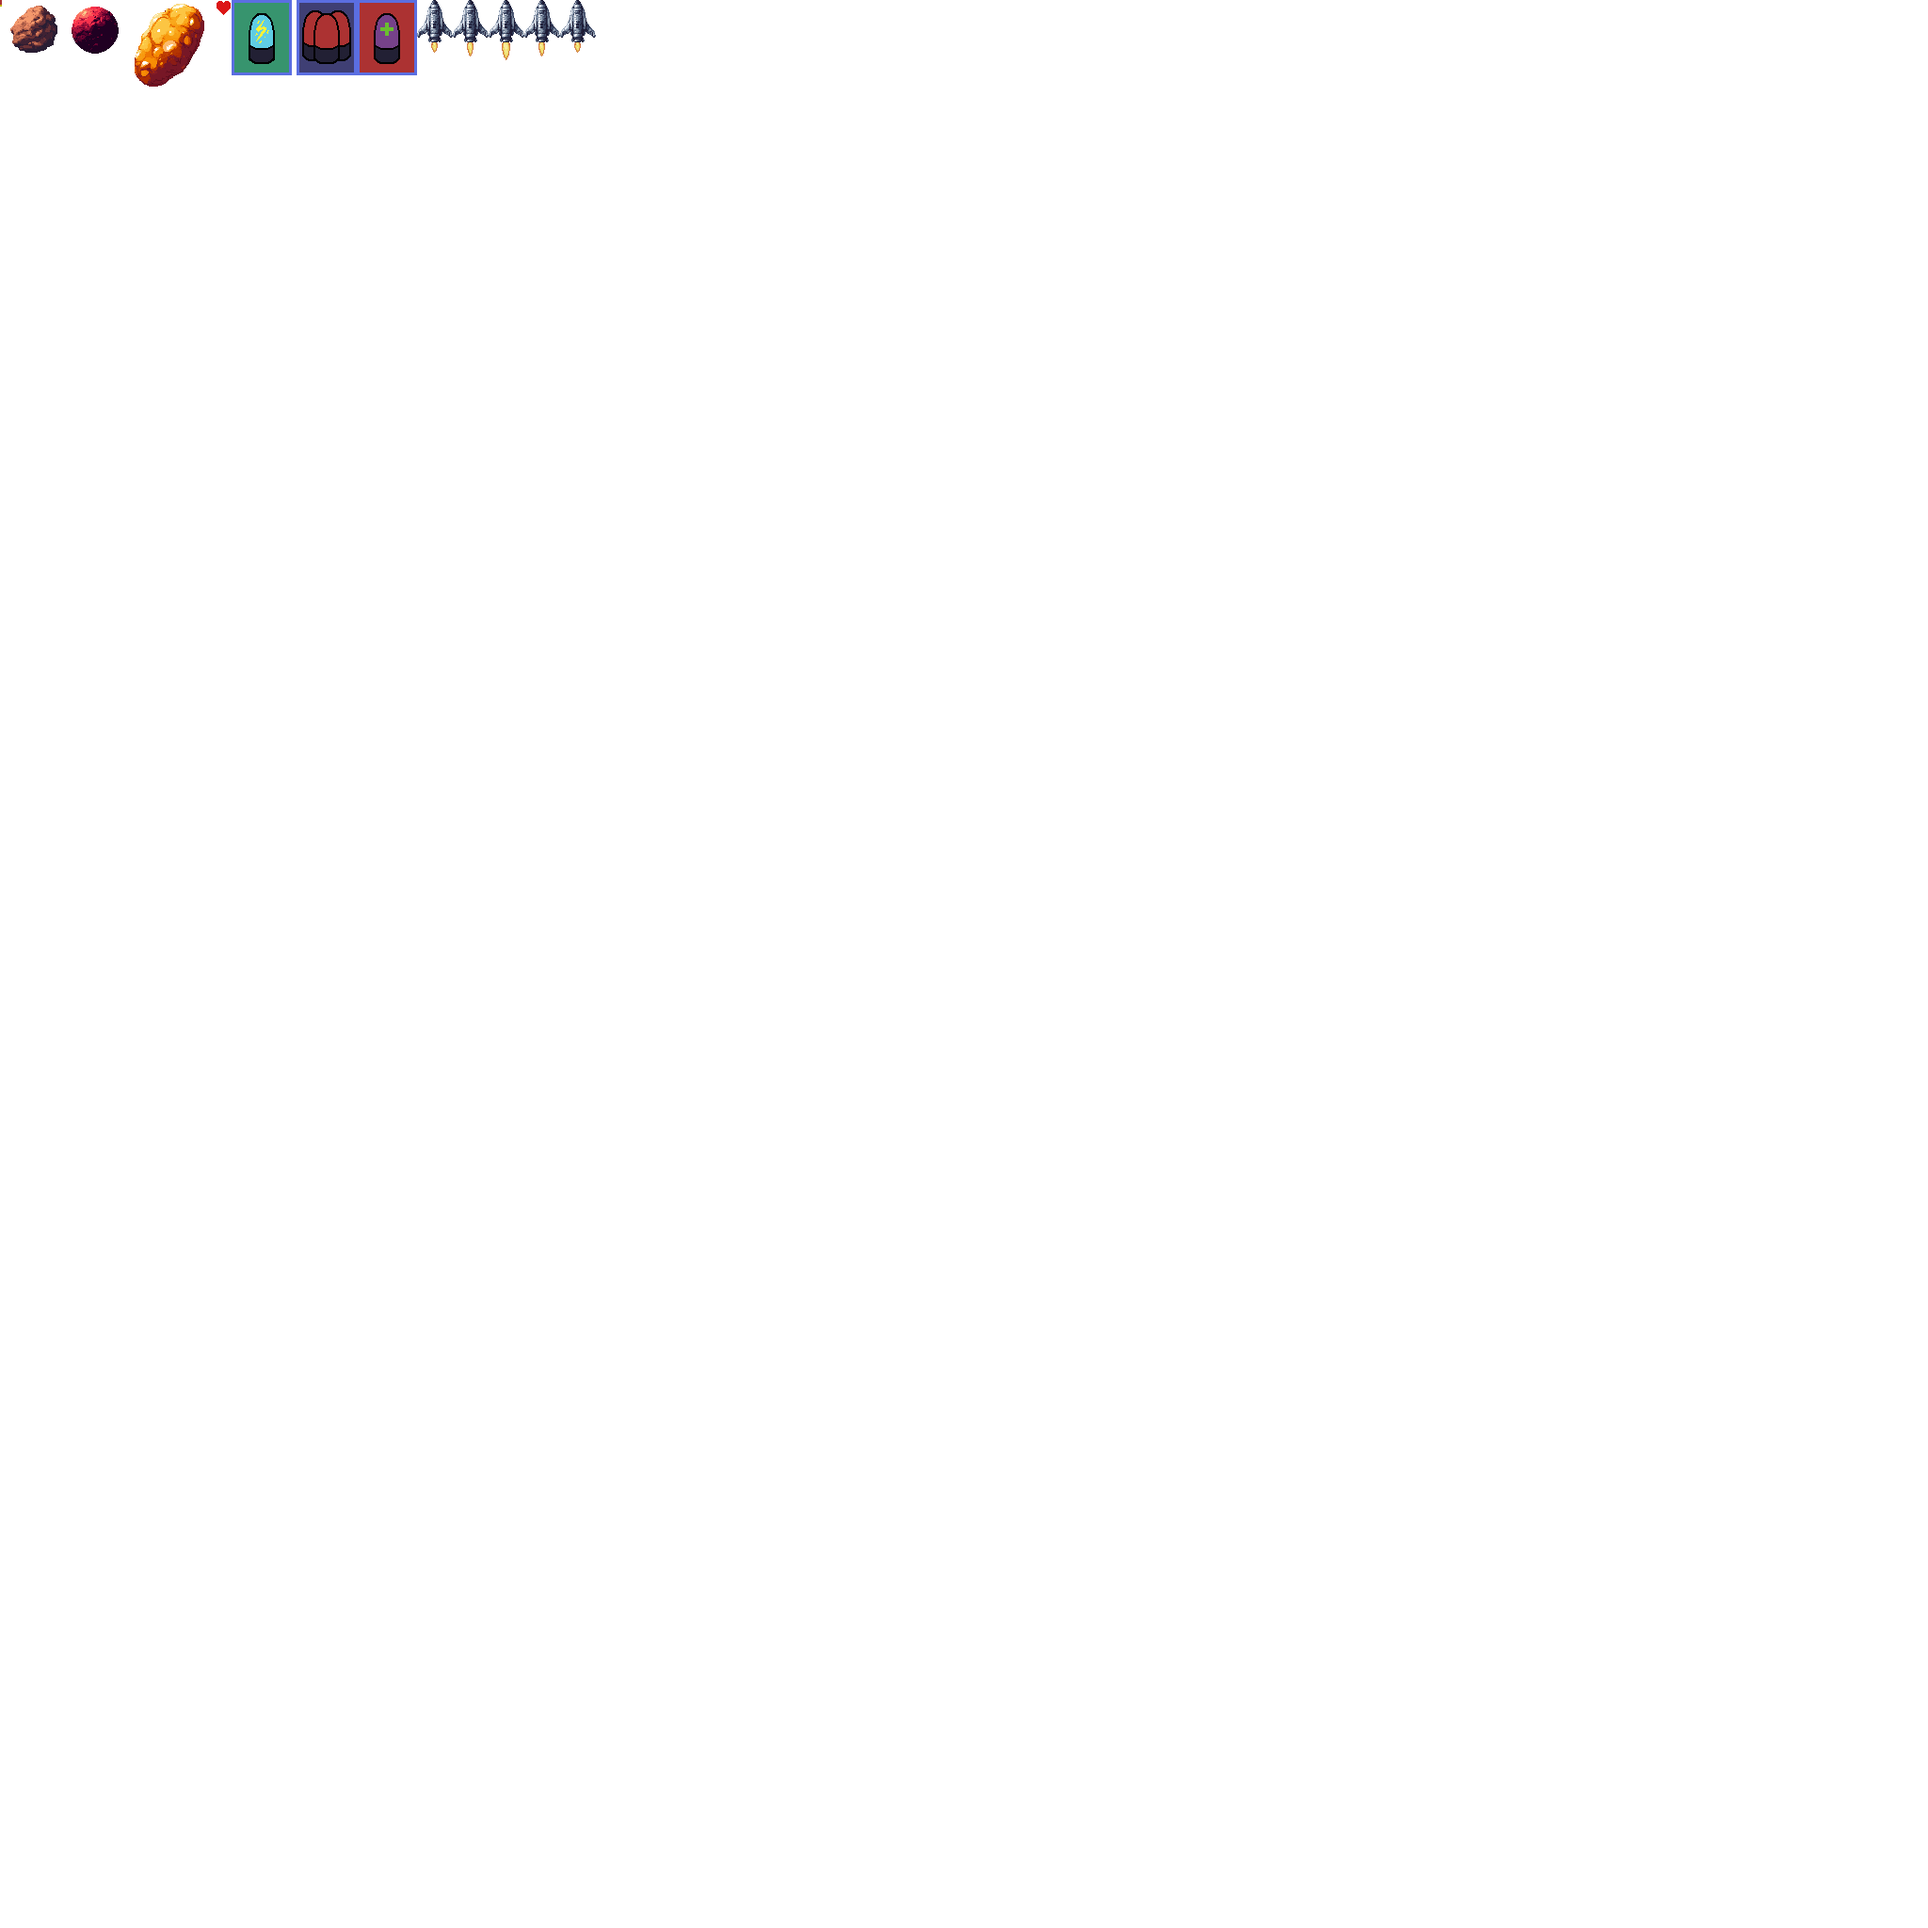
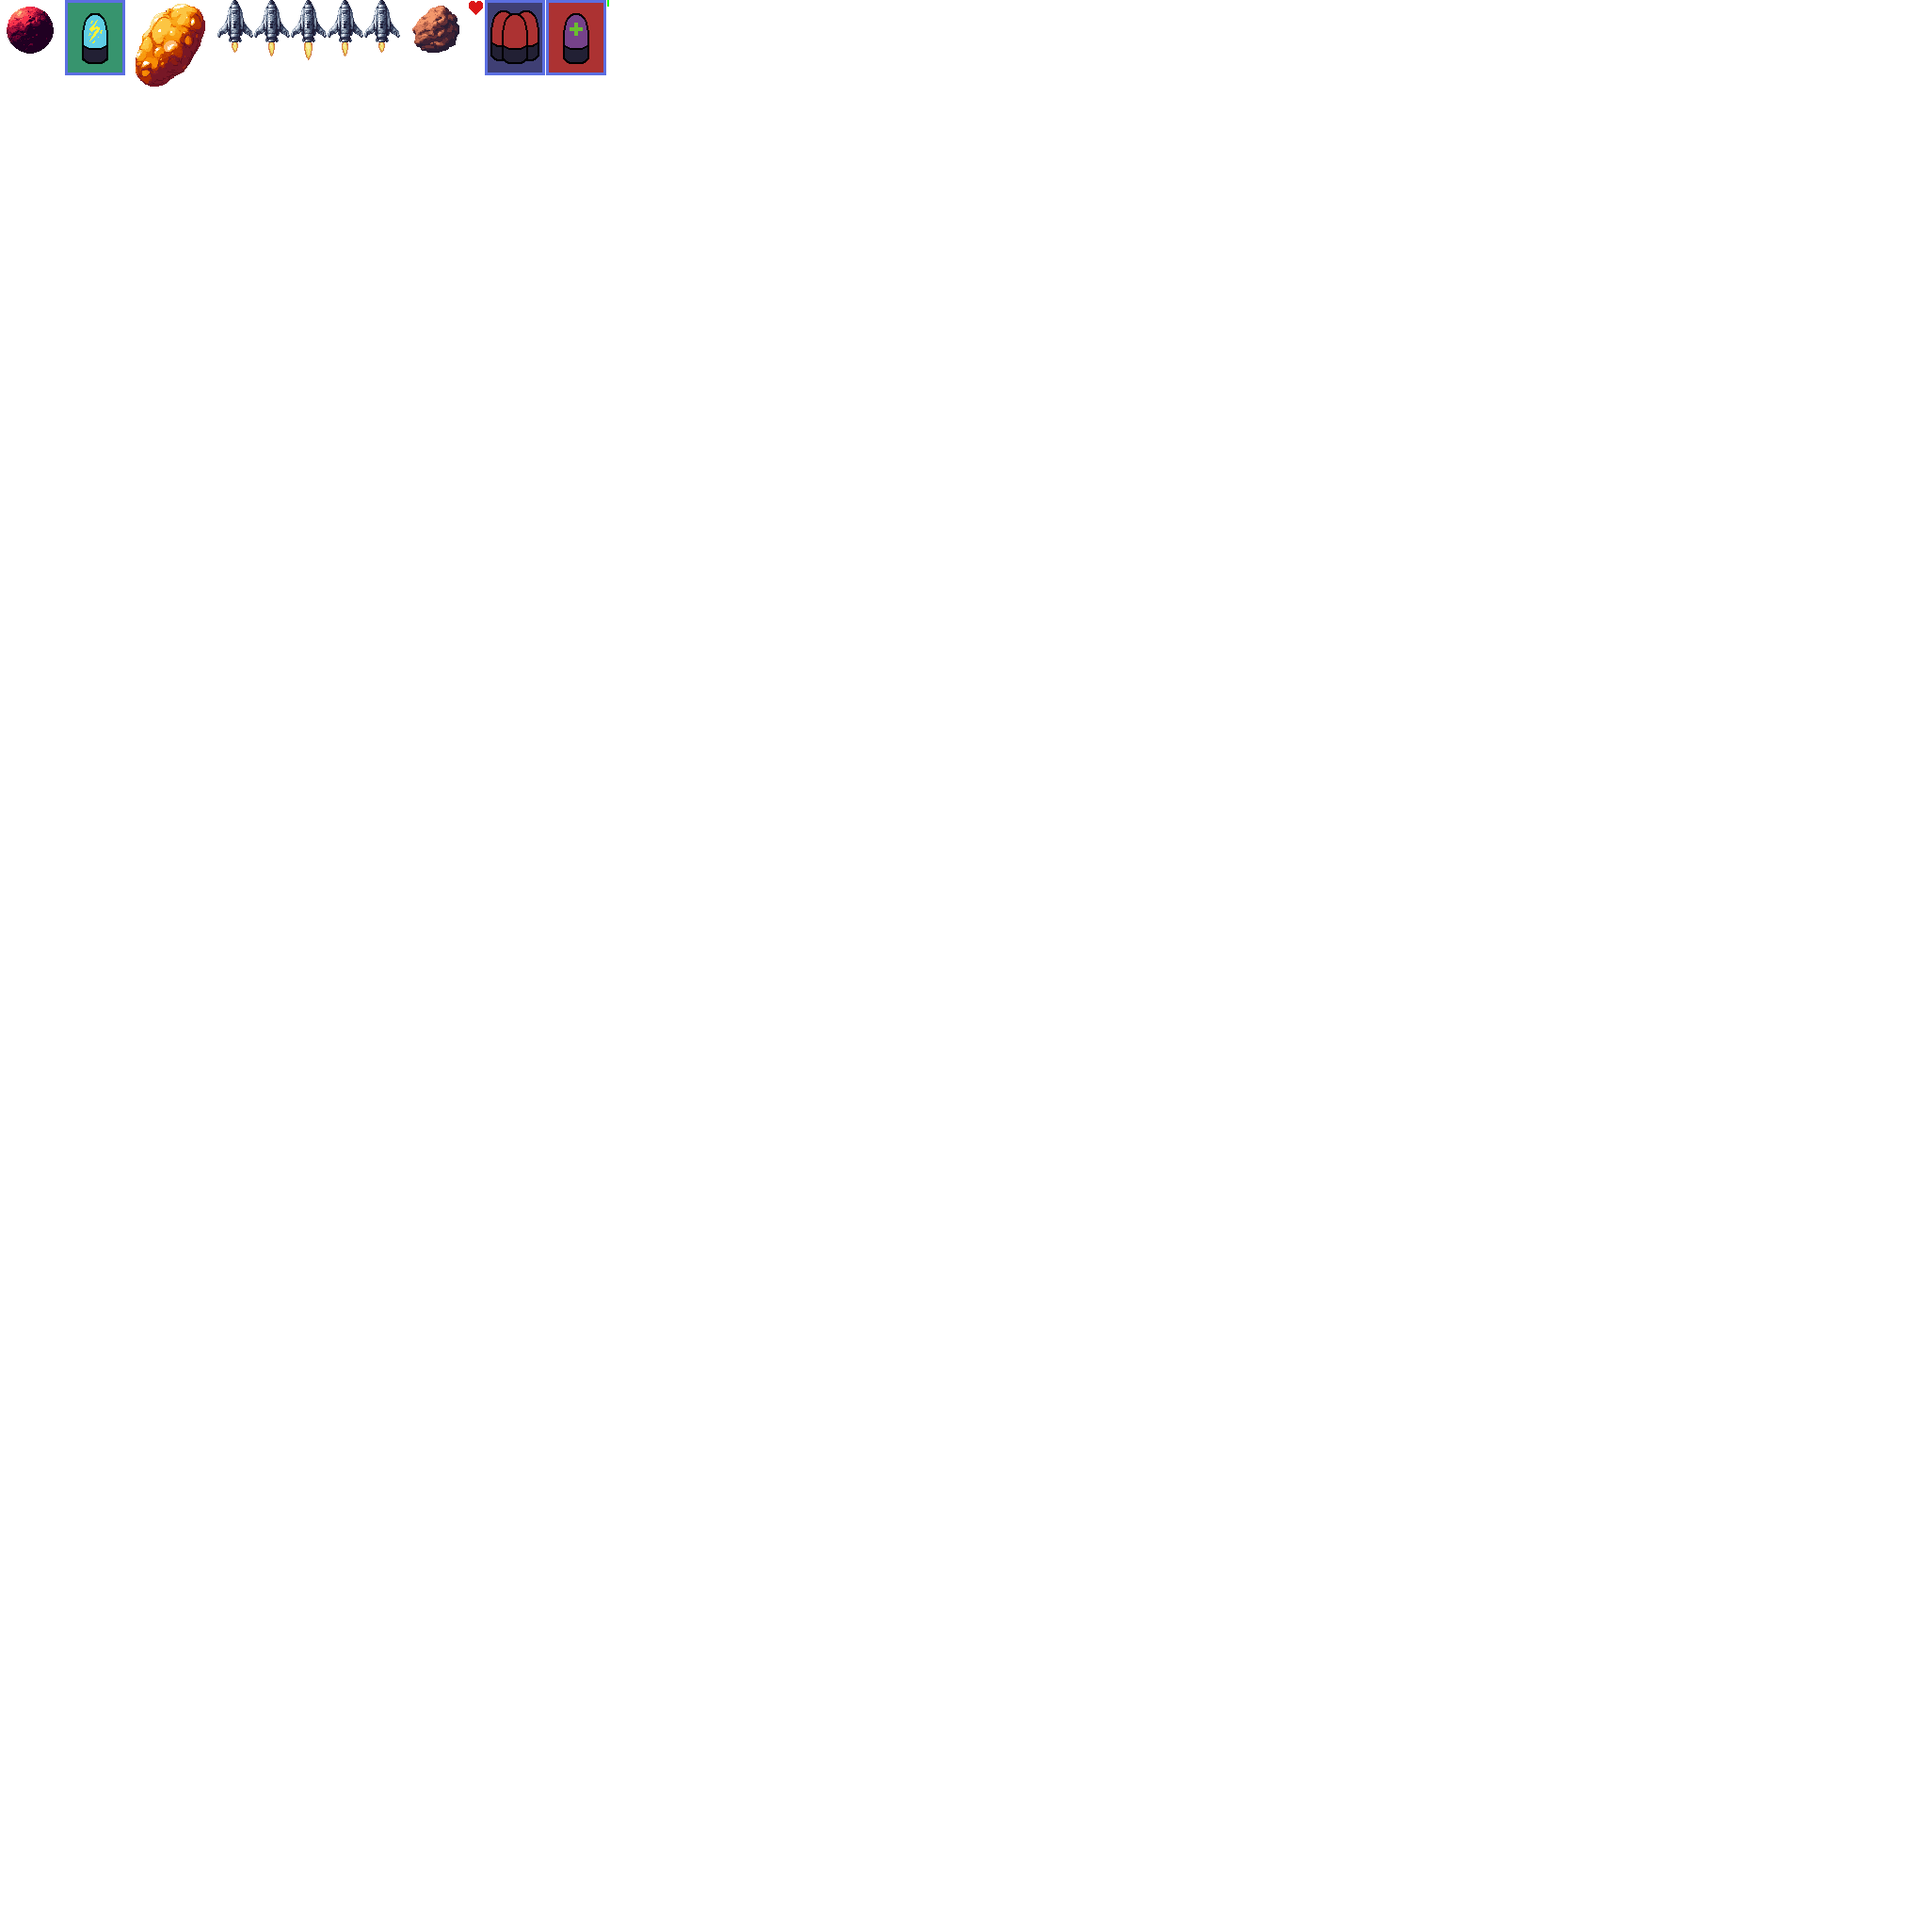
Added texture atlas shape padding of 1 to avoid errors when using bilinear interpolation

Changed region(s): [[0.0, 0.0, 0.3125, 0.0625]]

diff --git a/assetsData.h b/assetsData.h
@@ -28,17 +28,17 @@ typedef enum SpriteID {
 static inline Sprite getSprite(SpriteID spriteID) {
     Sprite s = {0};
     switch(spriteID) {
-        case SPRITE_ASTEROID1: { s.coords = (Rectangle){5, 0, 64, 64}; s.pivotOffset = (Vector2){0, 0}; s.numFrames = 1; break; }
-        case SPRITE_ASTEROID2: { s.coords = (Rectangle){69, 0, 64, 64}; s.pivotOffset = (Vector2){0, 0}; s.numFrames = 1; break; }
-        case SPRITE_ASTEROID3: { s.coords = (Rectangle){133, 0, 96, 96}; s.pivotOffset = (Vector2){0, 0}; s.numFrames = 1; break; }
-        case SPRITE_BULLET: { s.coords = (Rectangle){0, 0, 2, 7}; s.pivotOffset = (Vector2){0, 0}; s.numFrames = 1; break; }
-        case SPRITE_HEART: { s.coords = (Rectangle){229, 0, 17, 17}; s.pivotOffset = (Vector2){0, 0}; s.numFrames = 1; break; }
-        case SPRITE_PLAYER: { s.coords = (Rectangle){443, 0, 190, 64}; s.pivotOffset = (Vector2){-1, -24}; s.numFrames = 5; break; }
-        case SPRITE_STAR1: { s.coords = (Rectangle){310, 0, 5, 5}; s.pivotOffset = (Vector2){0, 0}; s.numFrames = 1; break; }
-        case SPRITE_STAR2: { s.coords = (Rectangle){2, 0, 3, 3}; s.pivotOffset = (Vector2){0, 0}; s.numFrames = 1; break; }
-        case SPRITE_UPGRADEDAMAGE: { s.coords = (Rectangle){379, 0, 64, 80}; s.pivotOffset = (Vector2){0, 0}; s.numFrames = 1; break; }
-        case SPRITE_UPGRADEFIRERATE: { s.coords = (Rectangle){246, 0, 64, 80}; s.pivotOffset = (Vector2){0, 0}; s.numFrames = 1; break; }
-        case SPRITE_UPGRADEMULTISHOT: { s.coords = (Rectangle){315, 0, 64, 80}; s.pivotOffset = (Vector2){0, 0}; s.numFrames = 1; break; }
+        case SPRITE_ASTEROID1: { s.coords = (Rectangle){432, 0, 64, 64}; s.pivotOffset = (Vector2){0, 0}; s.numFrames = 1; break; }
+        case SPRITE_ASTEROID2: { s.coords = (Rectangle){0, 0, 64, 64}; s.pivotOffset = (Vector2){0, 0}; s.numFrames = 1; break; }
+        case SPRITE_ASTEROID3: { s.coords = (Rectangle){134, 0, 96, 96}; s.pivotOffset = (Vector2){0, 0}; s.numFrames = 1; break; }
+        case SPRITE_BULLET: { s.coords = (Rectangle){645, 0, 2, 7}; s.pivotOffset = (Vector2){0, 0}; s.numFrames = 1; break; }
+        case SPRITE_HEART: { s.coords = (Rectangle){497, 0, 17, 17}; s.pivotOffset = (Vector2){0, 0}; s.numFrames = 1; break; }
+        case SPRITE_PLAYER: { s.coords = (Rectangle){235, 0, 190, 64}; s.pivotOffset = (Vector2){-1, -24}; s.numFrames = 5; break; }
+        case SPRITE_STAR1: { s.coords = (Rectangle){426, 0, 5, 5}; s.pivotOffset = (Vector2){0, 0}; s.numFrames = 1; break; }
+        case SPRITE_STAR2: { s.coords = (Rectangle){65, 0, 3, 3}; s.pivotOffset = (Vector2){0, 0}; s.numFrames = 1; break; }
+        case SPRITE_UPGRADEDAMAGE: { s.coords = (Rectangle){580, 0, 64, 80}; s.pivotOffset = (Vector2){0, 0}; s.numFrames = 1; break; }
+        case SPRITE_UPGRADEFIRERATE: { s.coords = (Rectangle){69, 0, 64, 80}; s.pivotOffset = (Vector2){0, 0}; s.numFrames = 1; break; }
+        case SPRITE_UPGRADEMULTISHOT: { s.coords = (Rectangle){515, 0, 64, 80}; s.pivotOffset = (Vector2){0, 0}; s.numFrames = 1; break; }
         default: break;
     }
     return s;

diff --git a/assetsUtils.h b/assetsUtils.h
@@ -4,6 +4,7 @@
 #include "assetsData.h"
 
 #define internal static
+#define SHAPE_PADDING 1
 
 typedef struct SpriteAnimation
 {
@@ -84,8 +85,9 @@ SpriteAnimation createSpriteAnimation(Texture2D atlas, SpriteID spriteID, int fr
     spriteAnimation.rectangles = mem;
     for(int i = 0; i < numFrames; i++)
     {
-        spriteAnimation.rectangles[i] = (Rectangle){x+i*width/numFrames,y,width/numFrames,height};
-		// printf("Rectangle %i: %f %f %f %f\n", i, spriteAnimation.rectangles[i].x, spriteAnimation.rectangles[i].y, spriteAnimation.rectangles[i].width, spriteAnimation.rectangles[i].height);
+
+        spriteAnimation.rectangles[i] = (Rectangle){x+i*((width/numFrames)+SHAPE_PADDING)-SHAPE_PADDING*numFrames,y,width/numFrames,height};
+		printf("Rectangle %i: %f %f %f %f\n", i, spriteAnimation.rectangles[i].x, spriteAnimation.rectangles[i].y, spriteAnimation.rectangles[i].width, spriteAnimation.rectangles[i].height);
 	}
 
     return spriteAnimation;
@@ -111,7 +113,7 @@ TextureAtlas initTextureAtlas(SpriteMask spriteMasks[])
     TextureAtlas atlas;
     atlas.textureAtlas = LoadTexture("assets/atlas/atlas.png");
 	// SetTextureFilter(atlas.textureAtlas, TEXTURE_FILTER_POINT);
-	SetTextureFilter(atlas.textureAtlas, TEXTURE_FILTER_BILINEAR);
+	// SetTextureFilter(atlas.textureAtlas, TEXTURE_FILTER_BILINEAR);
 	// SetTextureFilter(atlas.textureAtlas, TEXTURE_FILTER_ANISOTROPIC_8X);
 
 	Image atlasImage = LoadImageFromTexture(atlas.textureAtlas);

diff --git a/TODO.md b/TODO.md
@@ -1,9 +1,11 @@
 # TODO list: 
 
-- [x] make pixel perfect collision work with rotating asteroids
-- [ ] build a texture packer for sprites with aseprite
 - [ ] figure out how to build for web
 - [ ] make it fun
+- [x] make pixel perfect collision work with rotating asteroids
+- [x] build a texture packer for sprites with aseprite
+    - [x] add padding to sprites in aseprite -b command
+    - [x] make it work without opening all sprites as files
 - [x] add sprite bitmasks at init load of textures
 - [x] add pixel perfect collision detection for bullets / asteroids
 - [x] add sound effects
